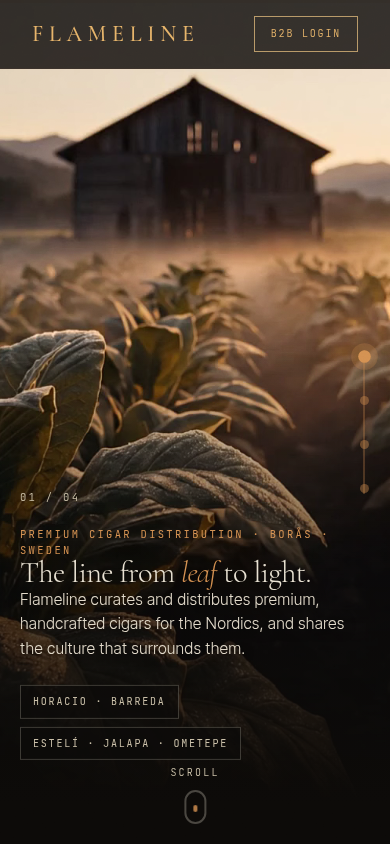
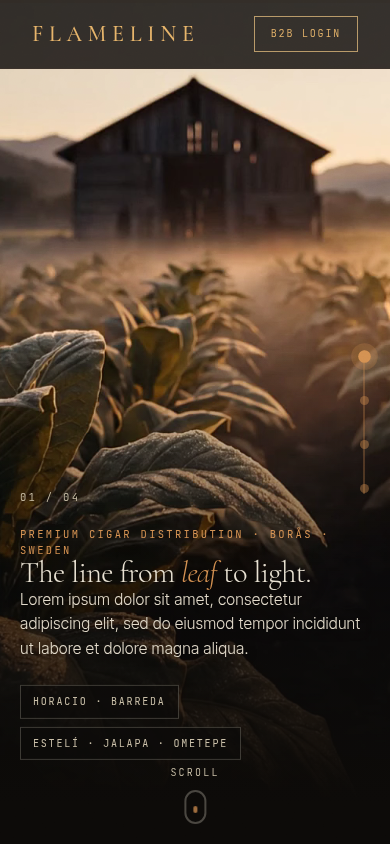
feat: all content paragraphs are lorem ipsum, hero scenes included
Claude-Session: https://claude.ai/code/session_01RKmJ1iWrN7f18RWAJzrLnn

Changed region(s): [[0.0615, 0.6777, 0.8923, 0.8009]]

diff --git a/lib/scroll-world/scenes.ts b/lib/scroll-world/scenes.ts
@@ -26,7 +26,7 @@ export const SCENES: readonly Scene[] = [
     eyebrow: "Premium cigar distribution · Borås · Sweden",
     title: "The line from leaf to light.",
     titleEm: "leaf",
-    body: "Flameline curates and distributes premium, handcrafted cigars for the Nordics, and shares the culture that surrounds them.",
+    body: "Lorem ipsum dolor sit amet, consectetur adipiscing elit, sed do eiusmod tempor incididunt ut labore et dolore magna aliqua.",
     tags: ["Horacio · Barreda", "Estelí · Jalapa · Ometepe"],
     scroll: 1.7,
     linger: 0.35,
@@ -36,7 +36,7 @@ export const SCENES: readonly Scene[] = [
     label: "The hand",
     eyebrow: "Rolled entubado",
     title: "Made by hand, box after box.",
-    body: "Fillers rolled entubado and empalmado: a firm pack with an excellent draw, every time.",
+    body: "Lorem ipsum dolor sit amet, consectetur adipiscing elit. Ut enim ad minim veniam, quis nostrud exercitation ullamco.",
     tags: ["Hand-rolled", "Nicaraguan-rooted"],
     linger: 0.25,
   },
@@ -45,7 +45,7 @@ export const SCENES: readonly Scene[] = [
     label: "The house",
     eyebrow: "Yxtobak Lounge · Borås",
     title: "One house holds the whole line.",
-    body: "From distributor pricing to guided corporate tastings, beneath a floor-to-ceiling humidor.",
+    body: "Lorem ipsum dolor sit amet, consectetur adipiscing elit. Duis aute irure dolor in reprehenderit in voluptate velit.",
     tags: ["Wholesale", "Events", "Education"],
     linger: 0.25,
   },
@@ -54,7 +54,7 @@ export const SCENES: readonly Scene[] = [
     label: "The light",
     eyebrow: "Trade & enthusiasts · 18+",
     title: "Give it your full attention.",
-    body: "A cigar is not smoked against the clock. That is the whole secret.",
+    body: "Lorem ipsum dolor sit amet, consectetur adipiscing elit. Excepteur sint occaecat cupidatat non proident.",
     tags: [],
     scroll: 1.8,
     linger: 0.45,

diff --git a/components/Pathways.tsx b/components/Pathways.tsx
@@ -5,21 +5,21 @@ const PATHS = [
     href: "#events",
     kicker: "Event services",
     title: "Corporate & private tastings",
-    body: "Guided cigar evenings for teams and clients: technique, etiquette and a curated flight, hosted by our specialists.",
+    body: "Lorem ipsum dolor sit amet, consectetur adipiscing elit, sed do eiusmod tempor incididunt ut labore et dolore magna aliqua.",
     cta: "View packages →",
   },
   {
     href: "#experience",
     kicker: "Culture & education",
     title: "The cigar experience",
-    body: "Five centuries of history and the anatomy of a handmade cigar. An educational hub for the curious and the devoted.",
+    body: "Lorem ipsum dolor sit amet, consectetur adipiscing elit. Ut enim ad minim veniam, quis nostrud exercitation ullamco.",
     cta: "Start reading →",
   },
   {
     href: "#brands",
     kicker: "The portfolio",
     title: "Horacio & Barreda",
-    body: "Two Nicaraguan-rooted houses we carry: flavor profiles, key lines and what makes each worth shelf space.",
+    body: "Lorem ipsum dolor sit amet, consectetur adipiscing elit. Duis aute irure dolor in reprehenderit in voluptate velit.",
     cta: "Meet the brands →",
   },
 ];

diff --git a/components/TradeBand.tsx b/components/TradeBand.tsx
@@ -8,8 +8,8 @@ export default function TradeBand() {
             Distributor pricing, package breakdowns <span className="trade__amp">&amp;</span> direct ordering.
           </h2>
           <p className="trade__body">
-            Lorem ipsum dolor sit amet, consectetur adipiscing elit. Retailers, lounges and corporate buyers order
-            directly through the wholesale portal. Sed do eiusmod tempor incididunt ut labore et dolore magna aliqua.
+            Lorem ipsum dolor sit amet, consectetur adipiscing elit, sed do eiusmod tempor incididunt ut labore et dolore
+            magna aliqua. Ut enim ad minim veniam, quis nostrud exercitation ullamco laboris nisi ut aliquip.
           </p>
         </div>
         <a href="#b2b" className="btn btn--solid">Enter the portal →</a>

diff --git a/tests/anchors.test.ts b/tests/anchors.test.ts
@@ -17,3 +17,10 @@ test("demo sections mark every client photograph the brief promises: brand, prod
   expect(html).toContain('href="#brands"');   // nav and pathway card point at the brands section
   expect(html).not.toMatch(/Founder<\/span>\s*<[^>]*>\s*[A-Z][a-z]+ [A-Z][a-z]+/); // no fabricated founder name
 });
+
+test("every content paragraph in the body is lorem ipsum", () => {
+  const html = readFileSync("out/index.html", "utf8");
+  const paras = [...html.matchAll(/class="(?:pathway__body|events__body|trade__body|brand__body|house__body|section-lead)"[^>]*>([^<]*)/g)].map((m) => m[1].trim());
+  expect(paras.length).toBeGreaterThanOrEqual(8);
+  for (const p of paras) expect(p).toMatch(/^Lorem ipsum/);
+});

diff --git a/tests/config.test.ts b/tests/config.test.ts
@@ -40,3 +40,7 @@ test("buildConfig omits clip when missing and falls back to placeholder still", 
   expect(cfg.sections[3]).toMatchObject({ scroll: 1.8, linger: 0.45 });
   expect(cfg.sections.every((s) => s.accent === "#d49152")).toBe(true);
 });
+
+test("every scene body is lorem ipsum (demo copy only)", () => {
+  for (const s of SCENES) expect(s.body).toMatch(/^Lorem ipsum/);
+});

diff --git a/docs/superpowers/plans/2026-09-27-flameline-scroll-hero.progress.md b/docs/superpowers/plans/2026-09-27-flameline-scroll-hero.progress.md
@@ -93,3 +93,4 @@ Follow-up: the wider crossfade alone did nothing visible — the current scene s
 Follow-up: scene copy now stays at zero through the whole dissolve band and ramps in over the next 0.15vh (was ramping inside the band, so the headline was at 50% while the blend was 50/50); engine test extended — RED→GREEN, suite green, build OK, QA PASS.
 Follow-up (user): scene copy sat too low at the end of each scene (finale bottom at 846/900). Cause: .sw-copy was centred with top:50% + translateY(-50%), but the per-frame scroll drift writes an inline transform that overwrites the centring, so the block hung from mid-viewport. Ruling: copy is bottom-anchored at clamp(96px,14vh,160px), matching the phone rule; qa-seams asserts finale and end-of-scene-3 copy bottoms ≤ 0.9vh and top ≥ nav — RED (846, 835) → GREEN — cost if wrong: one CSS line.
 Follow-up (user): demo sections for the photography the brief promises (brand/product photos, event photos, one portrait): EventGallery (#evenings, 3 event slots), Brands (#brands, Horacio and Barreda each with a brand photo slot and three product slots named from the client catalog lines), Founder (#house, portrait slot, no name invented). Nav "Brands" and the portfolio pathway now point at #brands. anchors test extended — RED→GREEN, suite 32/32, build OK, QA PASS.
+Follow-up (user): all content paragraphs are lorem ipsum — four scene bodies, three pathway bodies, trade band body; headlines, kickers, tags and CTAs unchanged. Tests pin scene bodies and every body paragraph class to /^Lorem ipsum/ — RED→GREEN.
